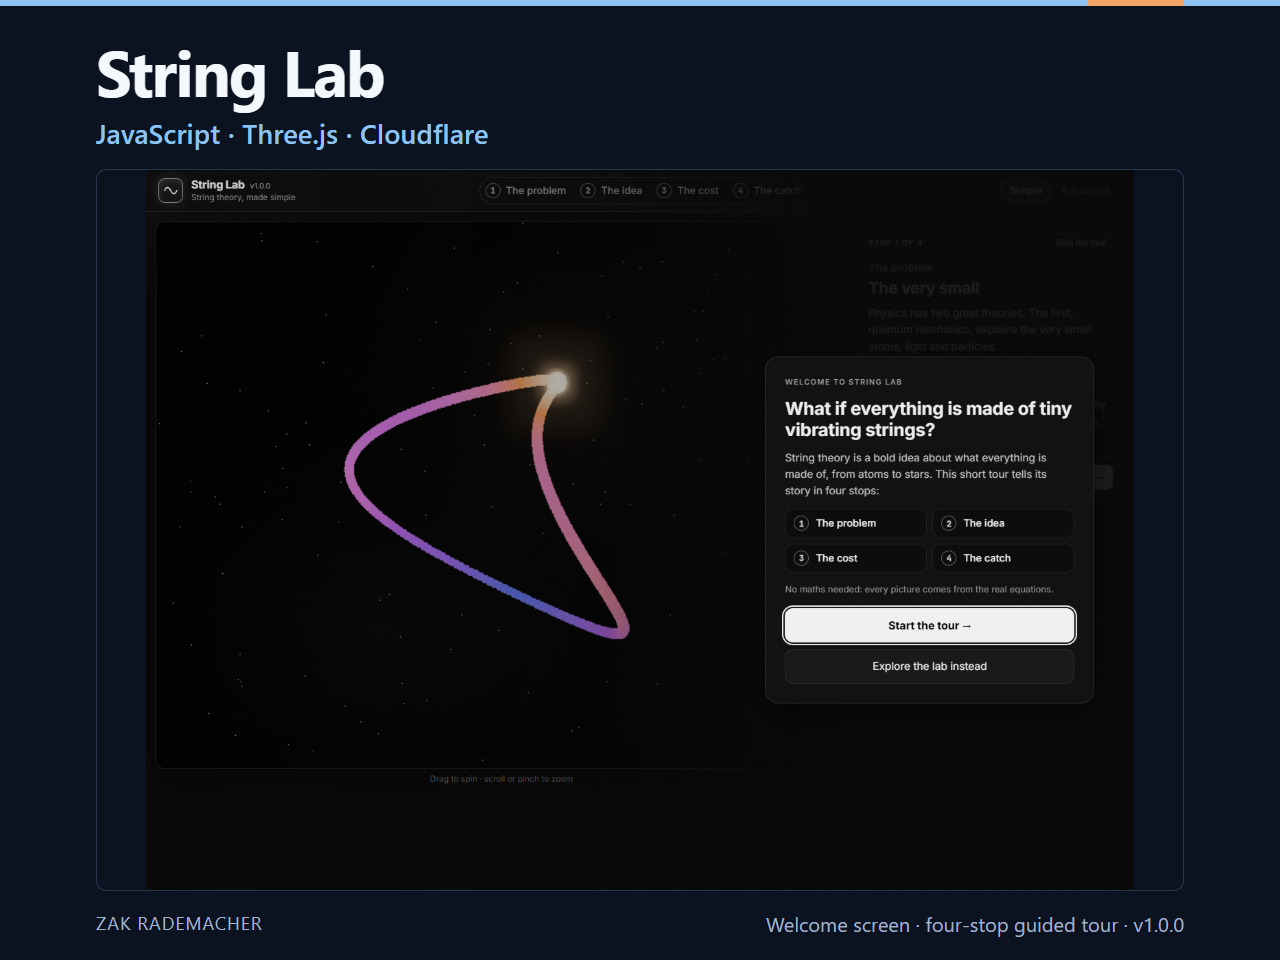
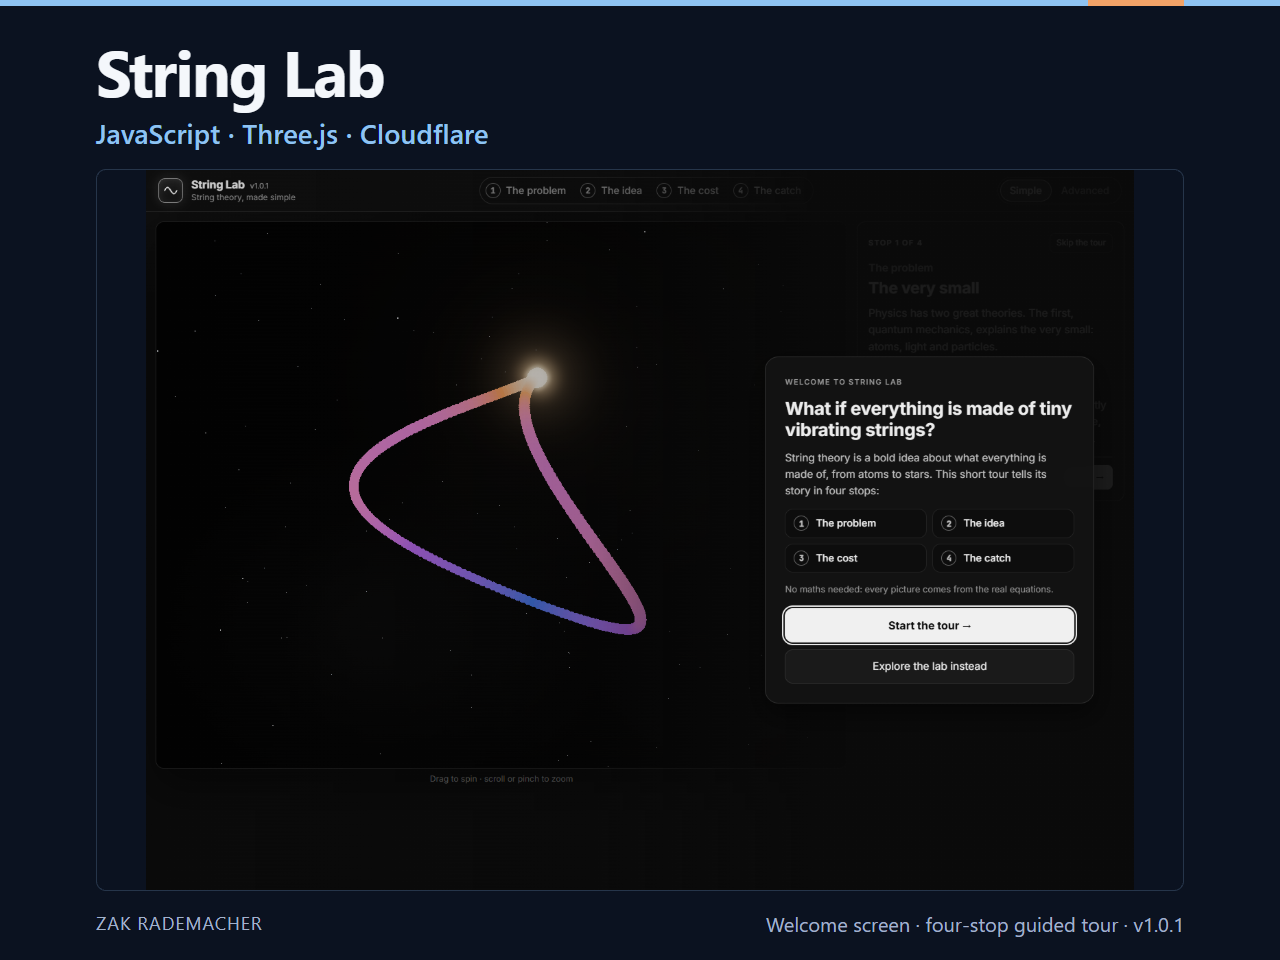
Refresh the screenshot and portfolio covers for 1.0.1 and fix the README test count

Changed region(s): [[0.25, 0.3438, 0.5312, 0.6875]]

diff --git a/README.md b/README.md
@@ -14,7 +14,7 @@ diagnostics. No accounts: saved setups stay in your own browser.
 
 **Live:** <https://string-lab.zakjrademacher.workers.dev>
 
-![String Lab's welcome screen over a vibrating closed string](docs/images/string-lab-1.0.0.png)
+![String Lab's welcome screen over a vibrating closed string](docs/images/string-lab-1.0.1.png)
 
 ## Scope: who it's for and what it won't do
 
@@ -50,7 +50,7 @@ experience. New ideas must support one of the four ideas above, or they don't go
 ```bash
 npm install
 npm run dev      # local preview, http://localhost:5173
-npm test         # 66 tests, offline
+npm test         # 71 tests, offline
 npm run deploy   # publish to Cloudflare
 ```
 
